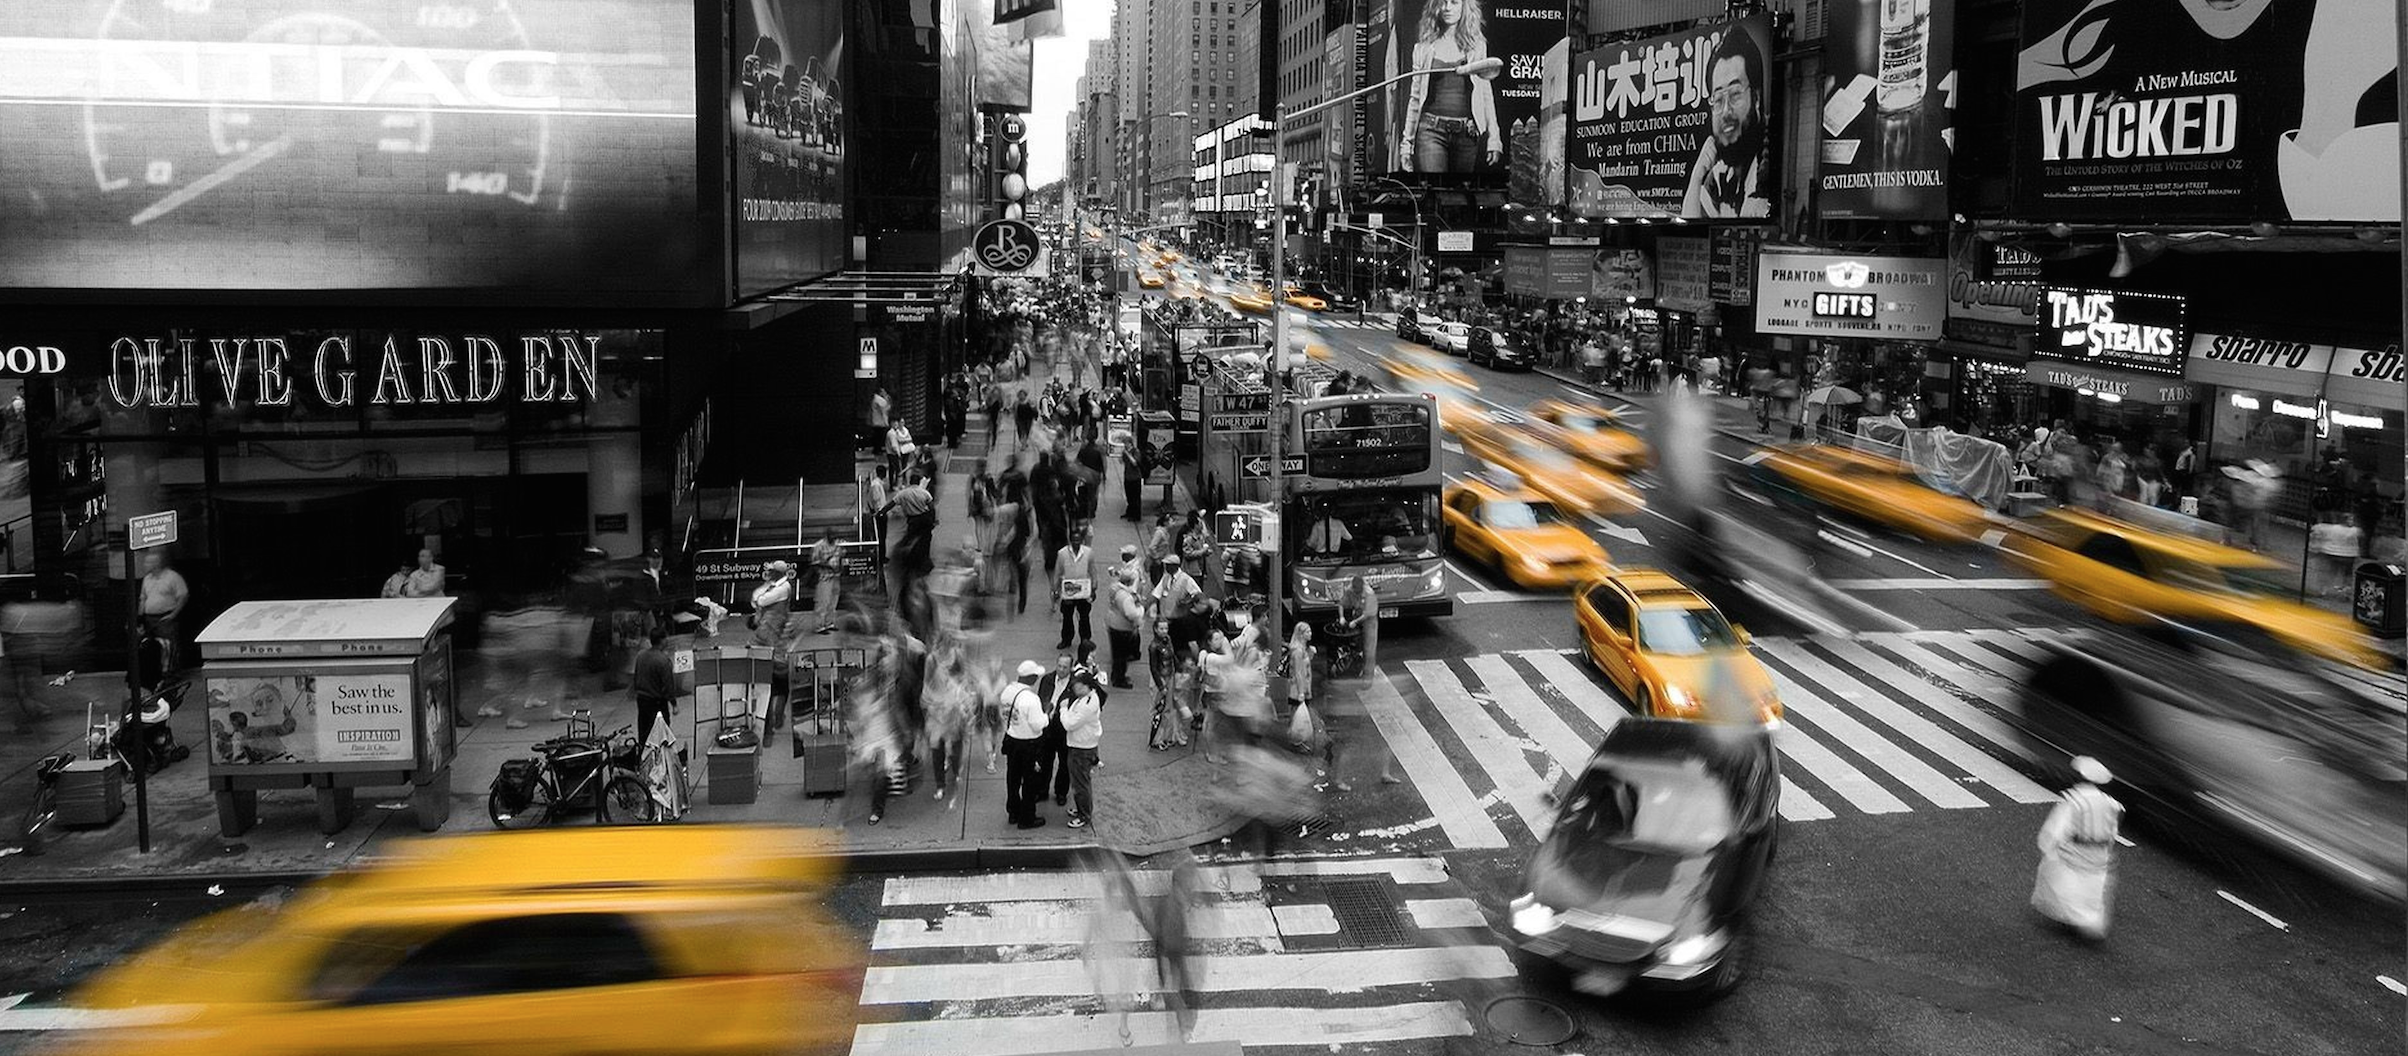
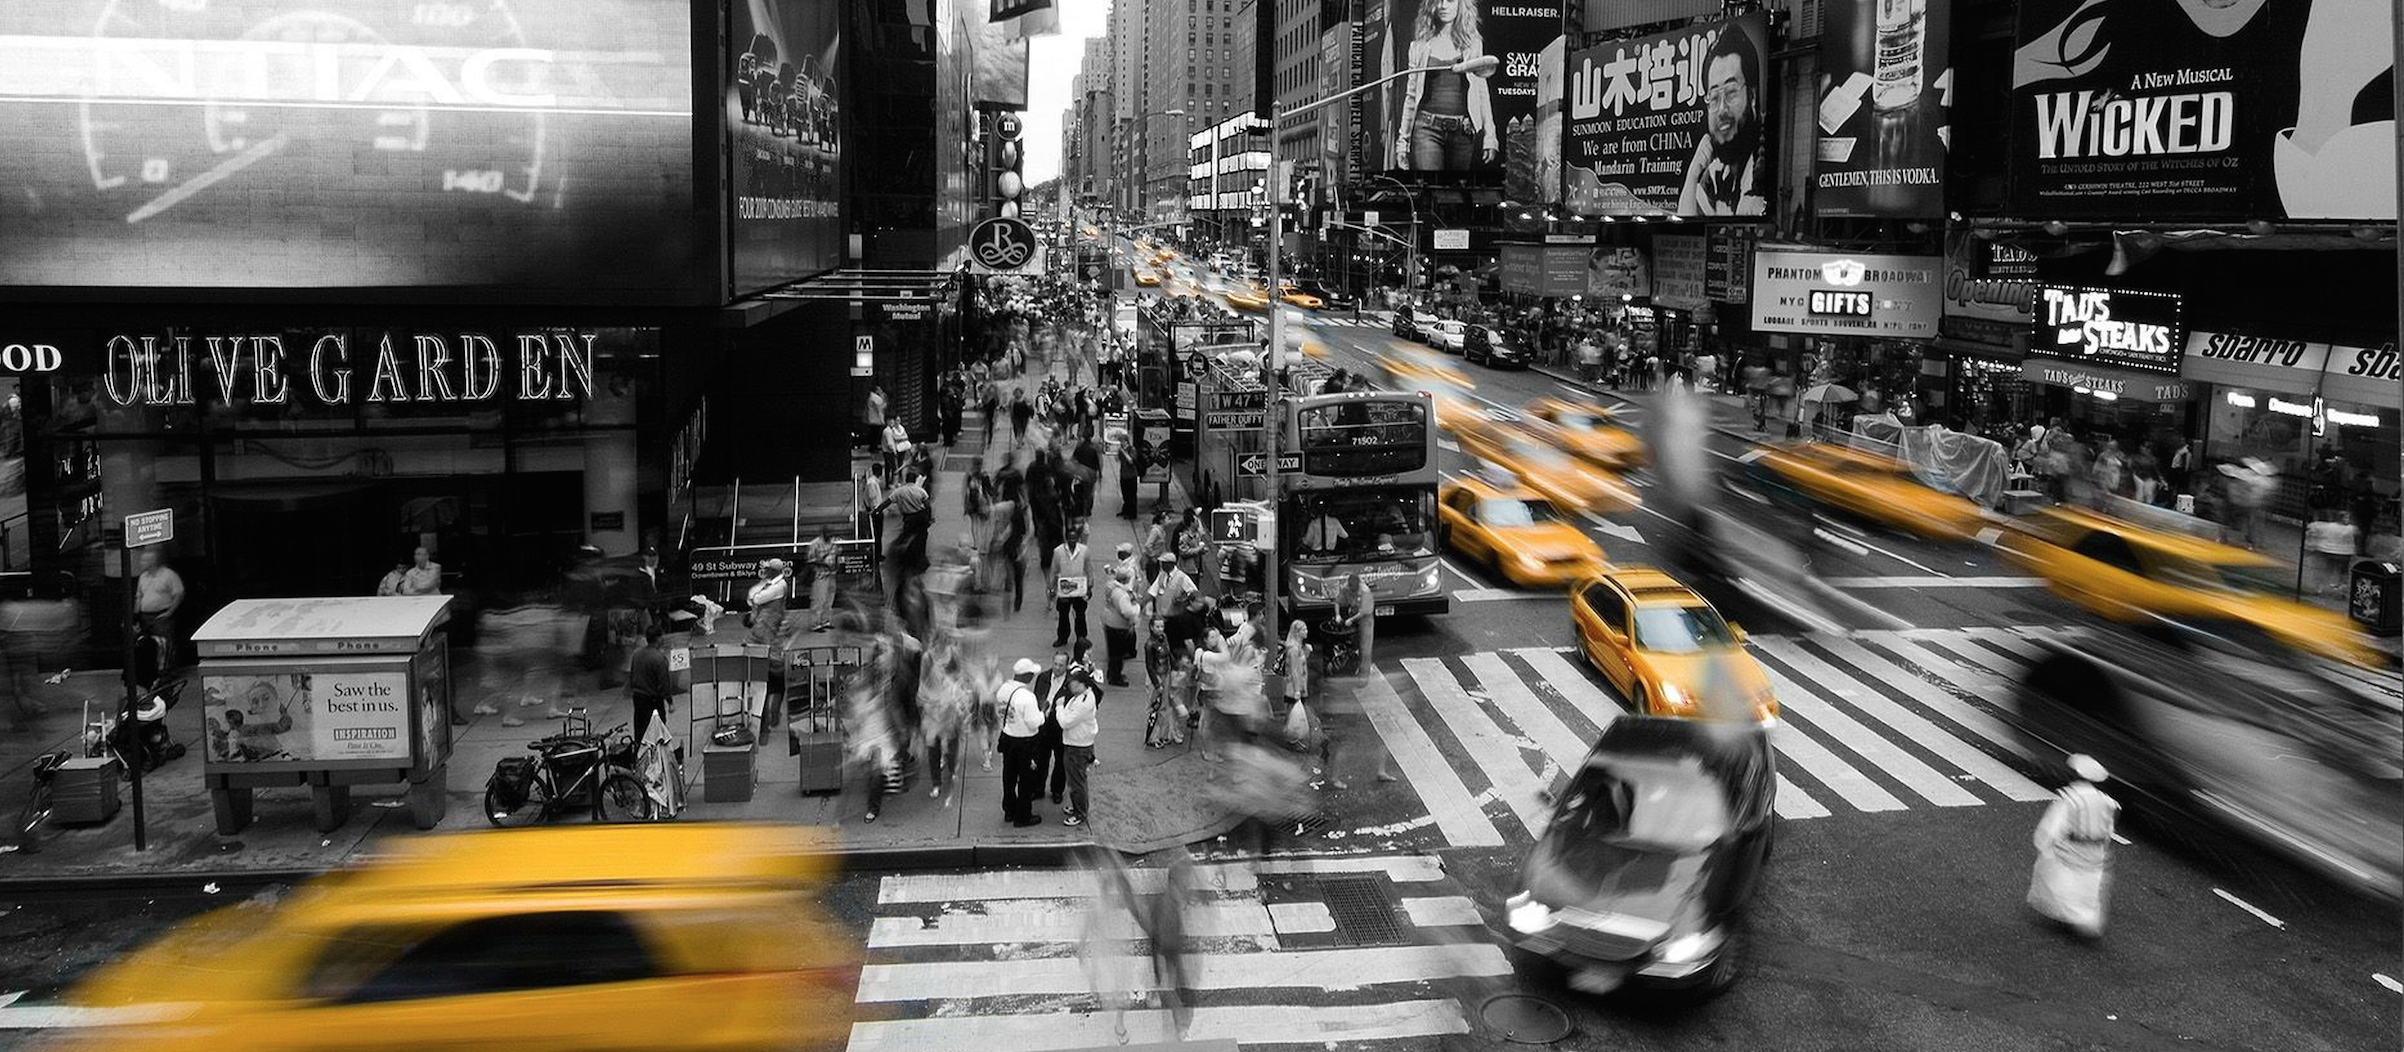
online csv reference

diff --git a/index.html b/index.html
@@ -48,7 +48,7 @@
       </div>
     </div>
 
-  
+
     <!-- Carousel
     ================================================== -->
     <div id="myCarousel" class="carousel slide" data-ride="carousel">
@@ -70,7 +70,7 @@
           </div>
         </div>
         <div class="item">
-          <img class="second-slide" src="./pic/taxidark.png" alt="Second slide">
+          <img class="second-slide" src="./pic/main.png" alt="Second slide">
           <div class="container">
             <div class="carousel-caption">
               <h1>What defines taxi tipping patterns?</h1>

diff --git a/js/map.js b/js/map.js
@@ -405,7 +405,7 @@ var popup = new L.Popup({ autoPan: false });
 	  //    {date:parseDate("25-Apr-12"),close:99.00}
 	  //];
 
-	  d3.tsv("data/weekend.csv", function(error, data) {
+	  d3.tsv("http://dimbi.github.io/tipmebig/data/weekend.csv", function(error, data) {
 		  data.forEach(function(d) {
 		  });
 
